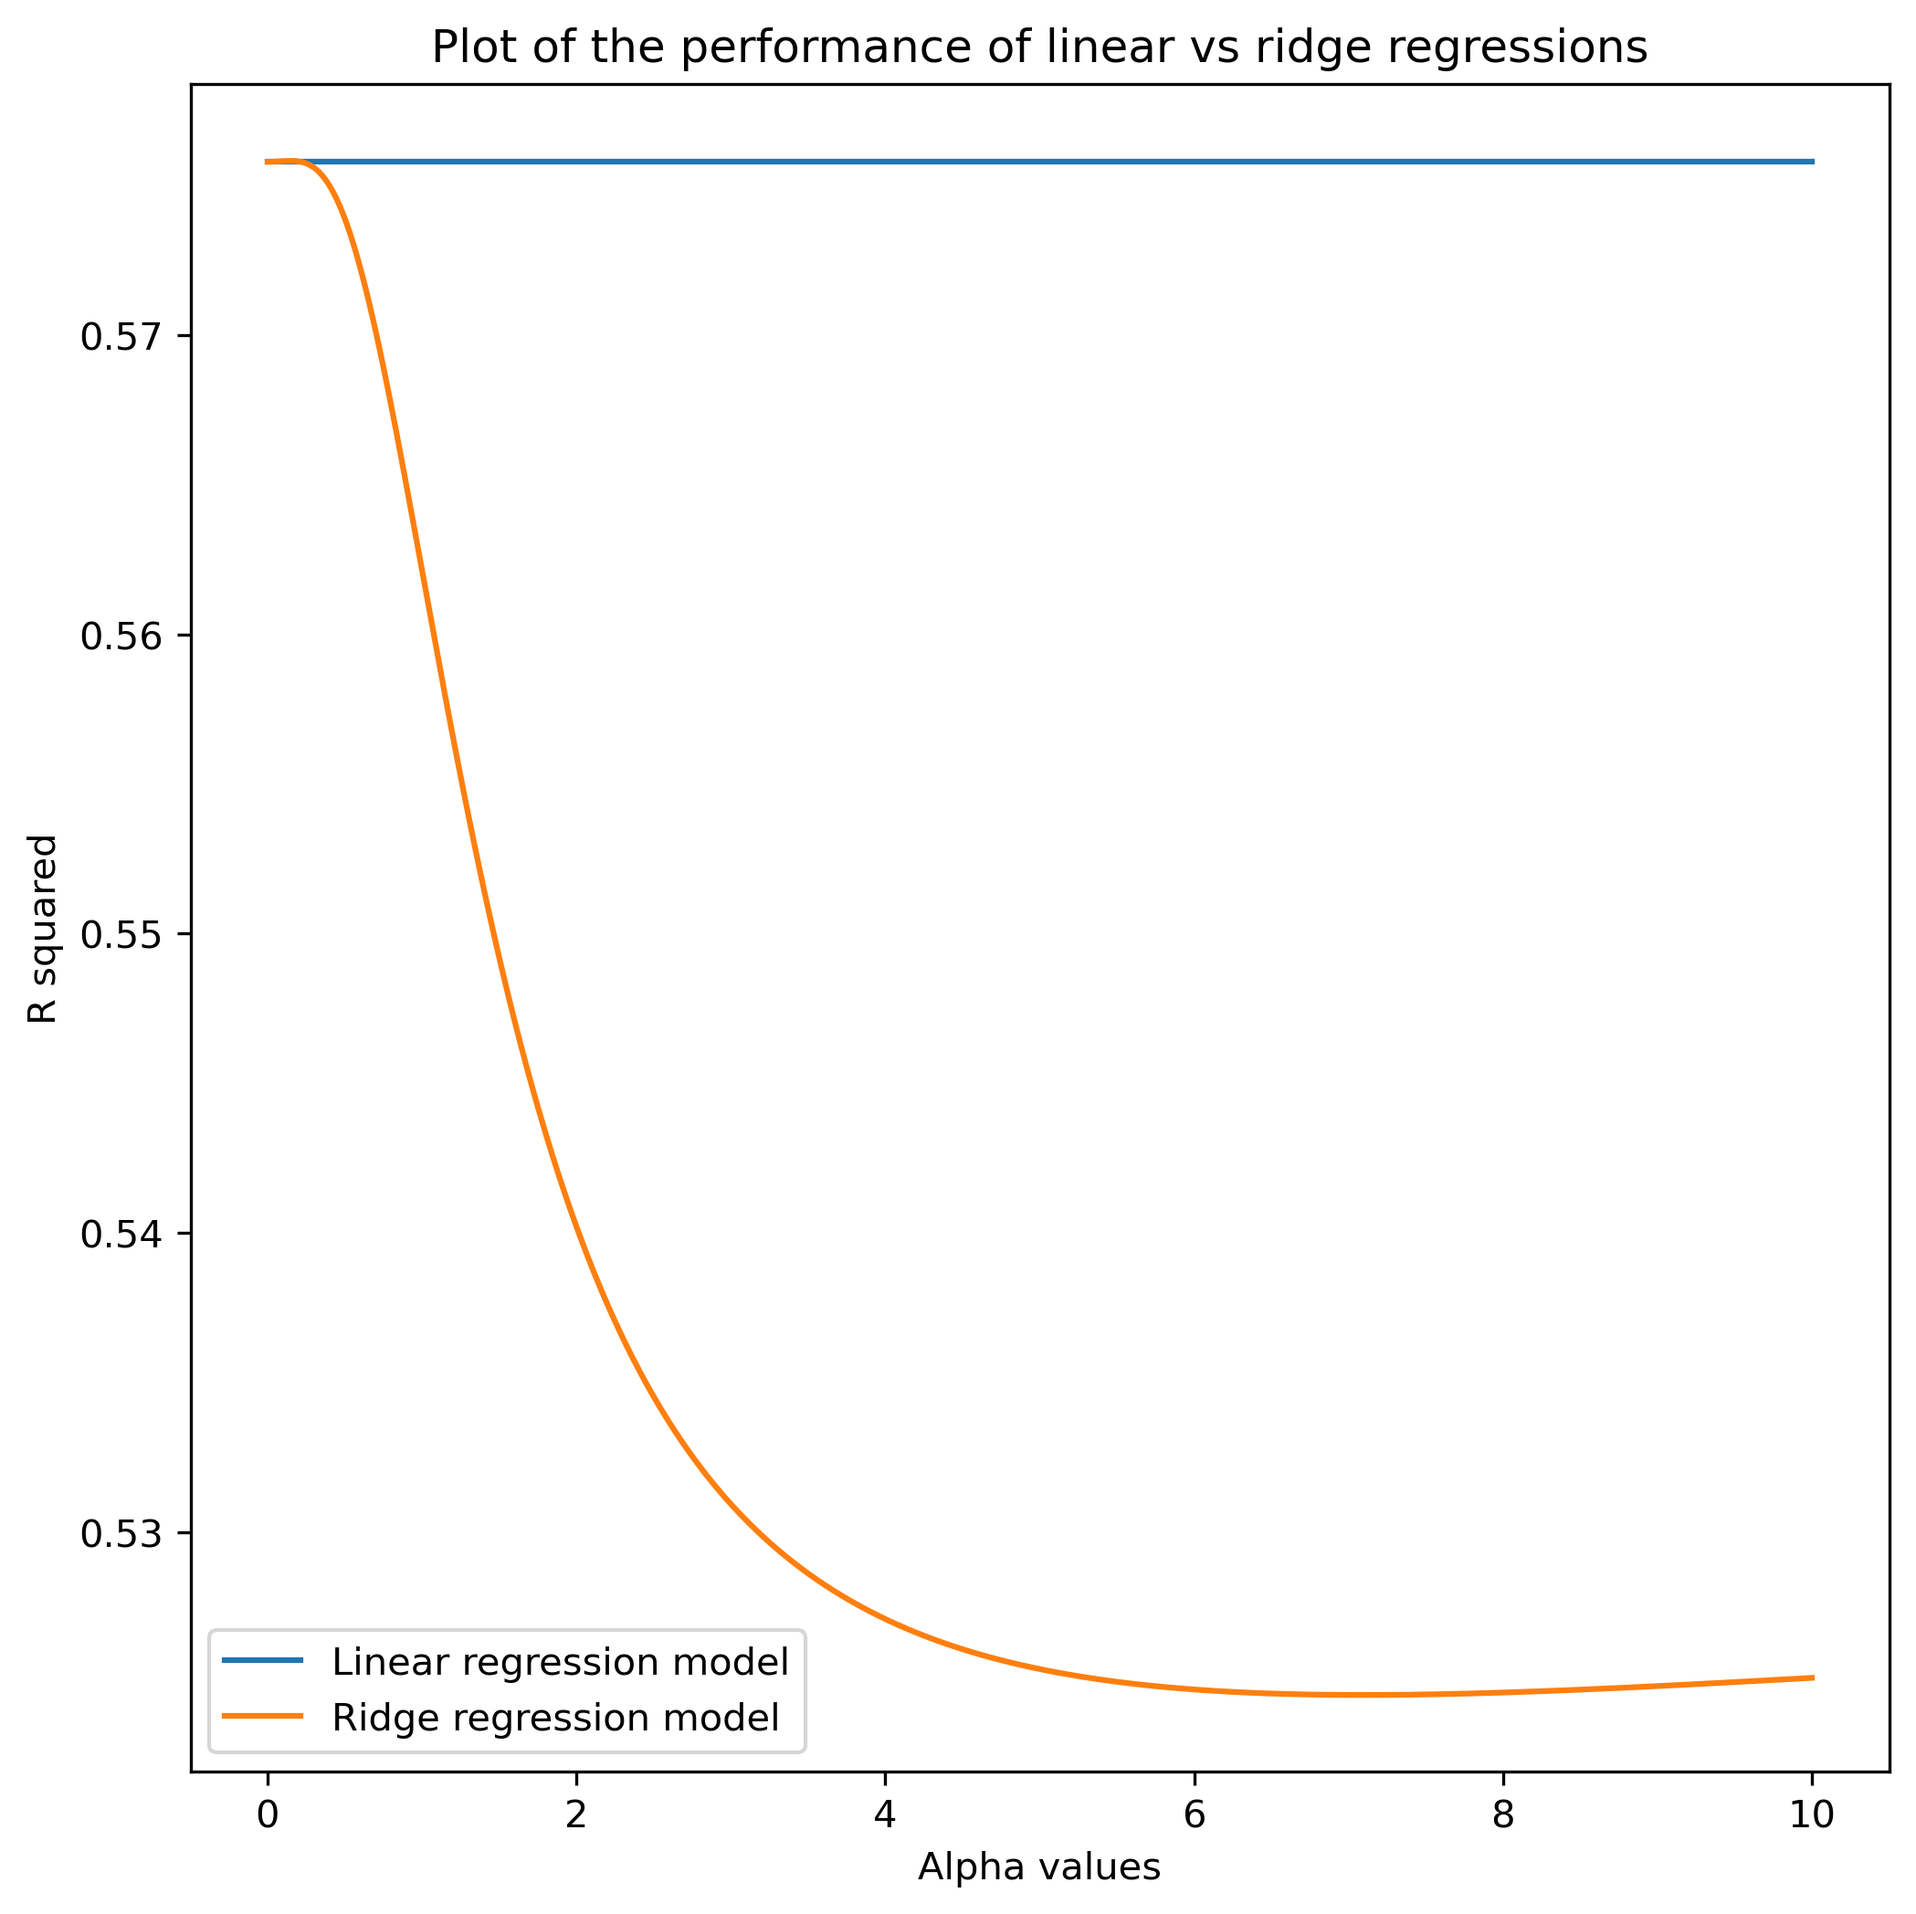
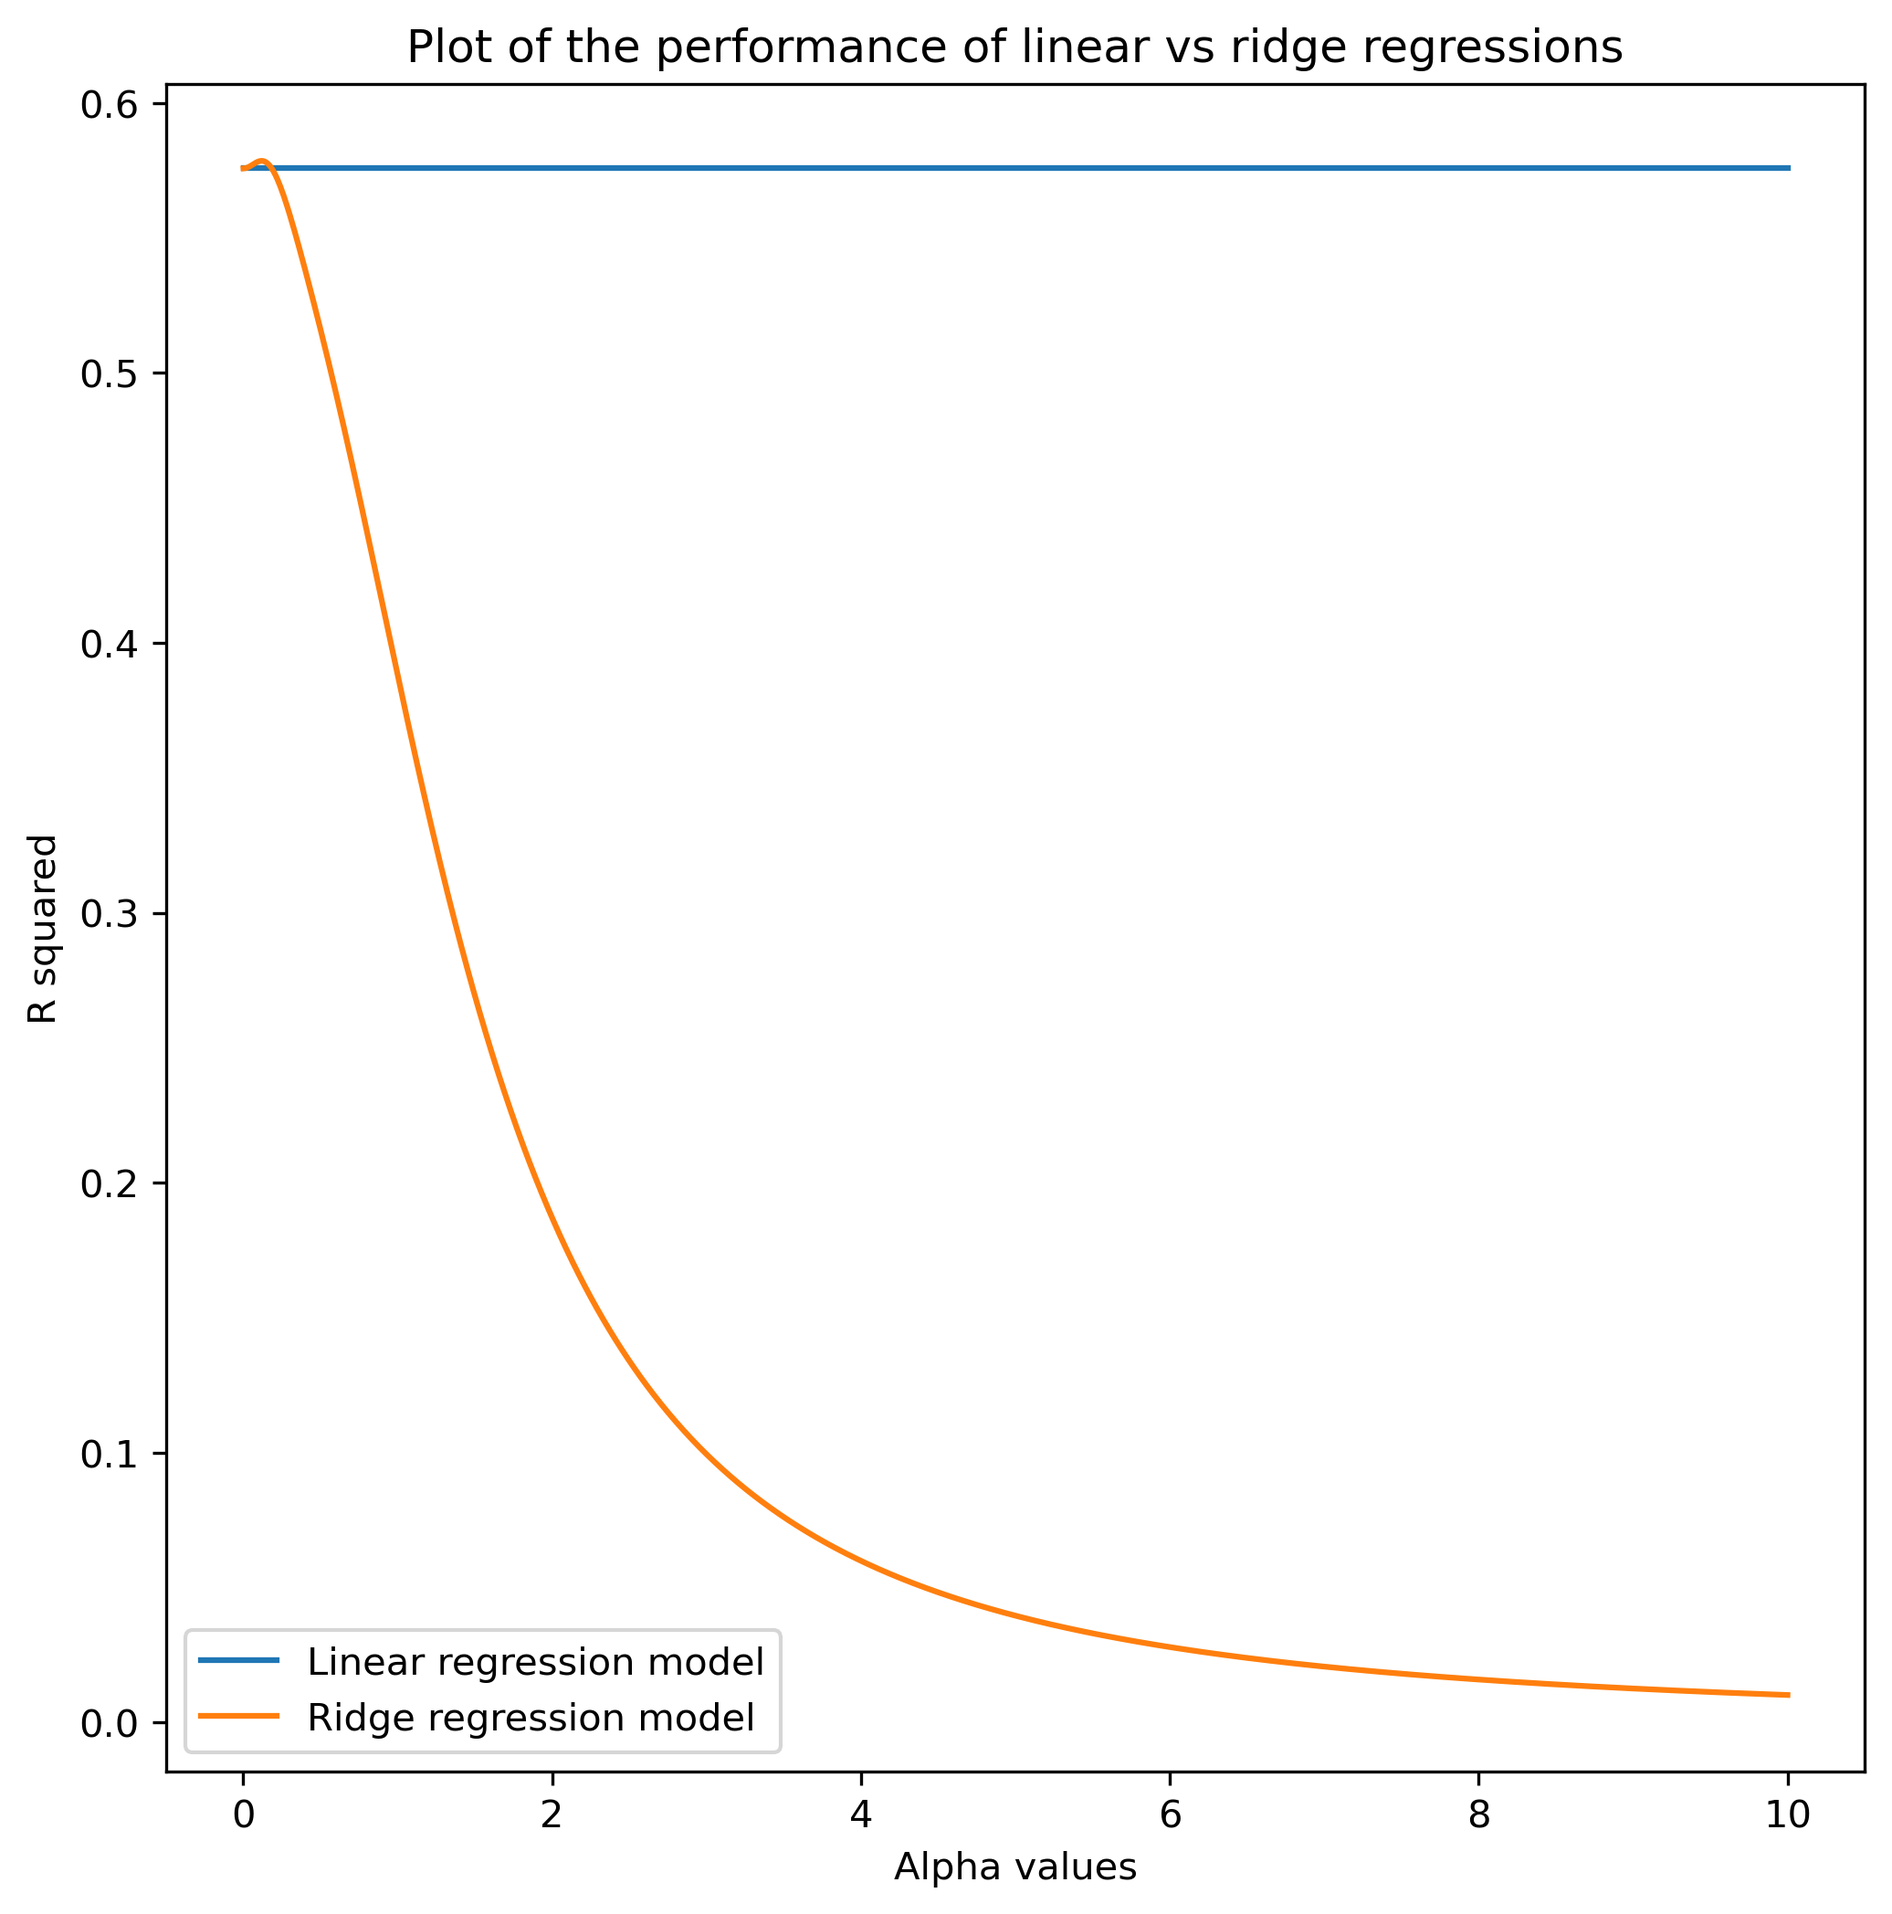
doing the change that fabian suggested

diff --git a/homework/HW3/HW3-final/Regression.py b/homework/HW3/HW3-final/Regression.py
@@ -58,33 +58,44 @@ class LinearRegression(Regression):
 
 
 ######## PART D
+######## PART D
 
 class RidgeRegression(LinearRegression):
      
     def __init__(self):
         super().__init__()
         
-    def set_params(self, **kwargs): #keyword arguments #created new variables that can be used anywhere in ridge regression
-        
-        for k, v in kwargs.items():
-            setattr(self, k, v)
+    def set_params(self, **kwargs): 
+        #keyword arguments #created new variables that can be used anywhere in ridge regression
+
+        ##for k, v in kwargs.items():
+        ##    setattr(self, k, v)
+        for value in kwargs.values():
+            self.alpha = value 
         
         
     def fit(self, X, y):
-        rows = X.shape[0]
-        new_col = np.ones((rows, 1))
-        #hstack, vstack, concatenate, np.c_
-        X = np.hstack((new_col, X))
+      
     
         for v in vars(self).keys():
             if v !='params':
                 alpha = vars(self)[v]
                 
+        scale = 1/ np.sqrt(np.sum((X-np.mean(X,axis=0))**2, axis=0))
+        X=X*scale
+        bias = np.ones((X.shape[0], 1))
+        X = np.hstack((bias,X))
+        
+        
         
         #alpha = self.set_params()
-        G = alpha * np.identity(X.shape[1])
+        G = self.alpha * np.identity(X.shape[1])
+        G[0,0] = 0
         
-        beta = np.linalg.pinv(X.T@X + G.T@G)@(X.T@y)
+        beta = np.linalg.inv(X.T@X + G.T@G)@(X.T@y)
+        intercept_ridge = beta[0]
+        coeff_ridge = beta[1:]*scale
         
-        self.params['intercept']= beta[0]
-        self.params['coefficients']= beta[1:]
+        self.params['intercept']= intercept_ridge
+        self.params['coefficients']= coeff_ridge
+    
